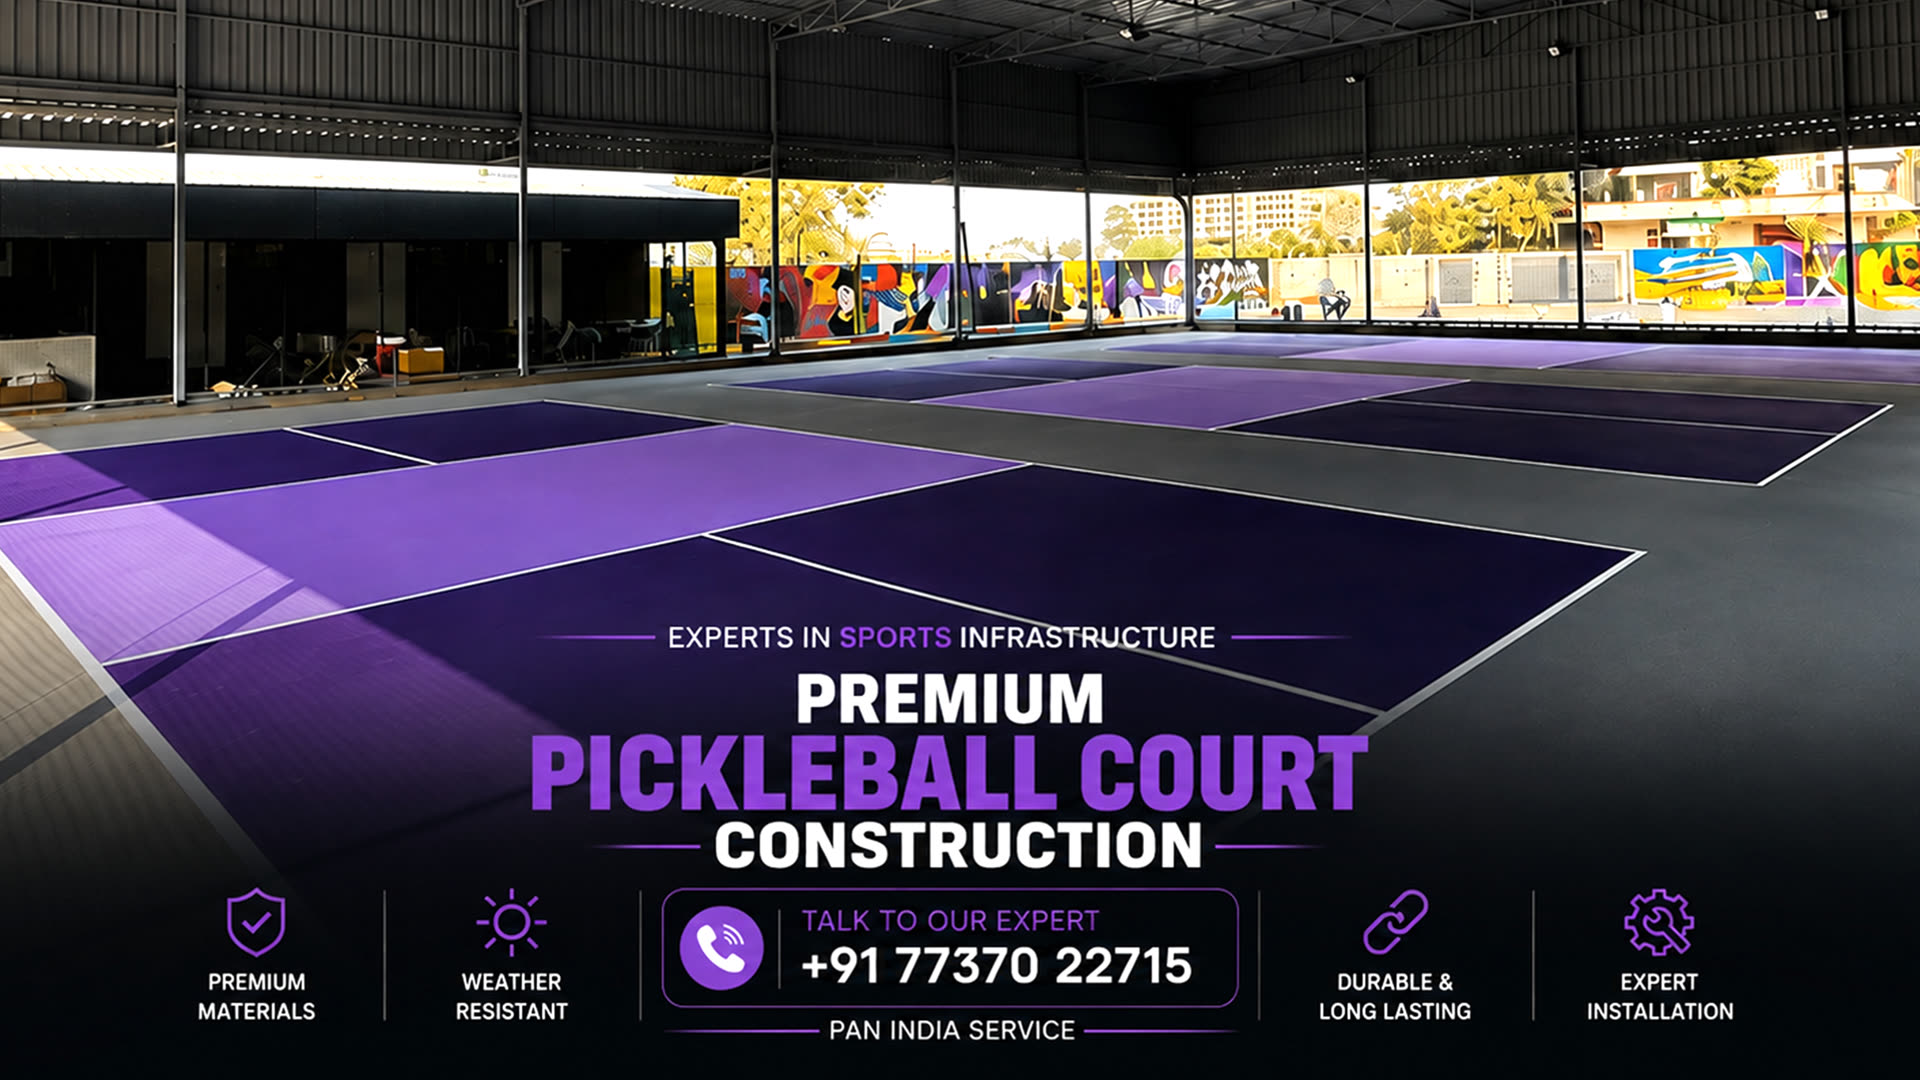
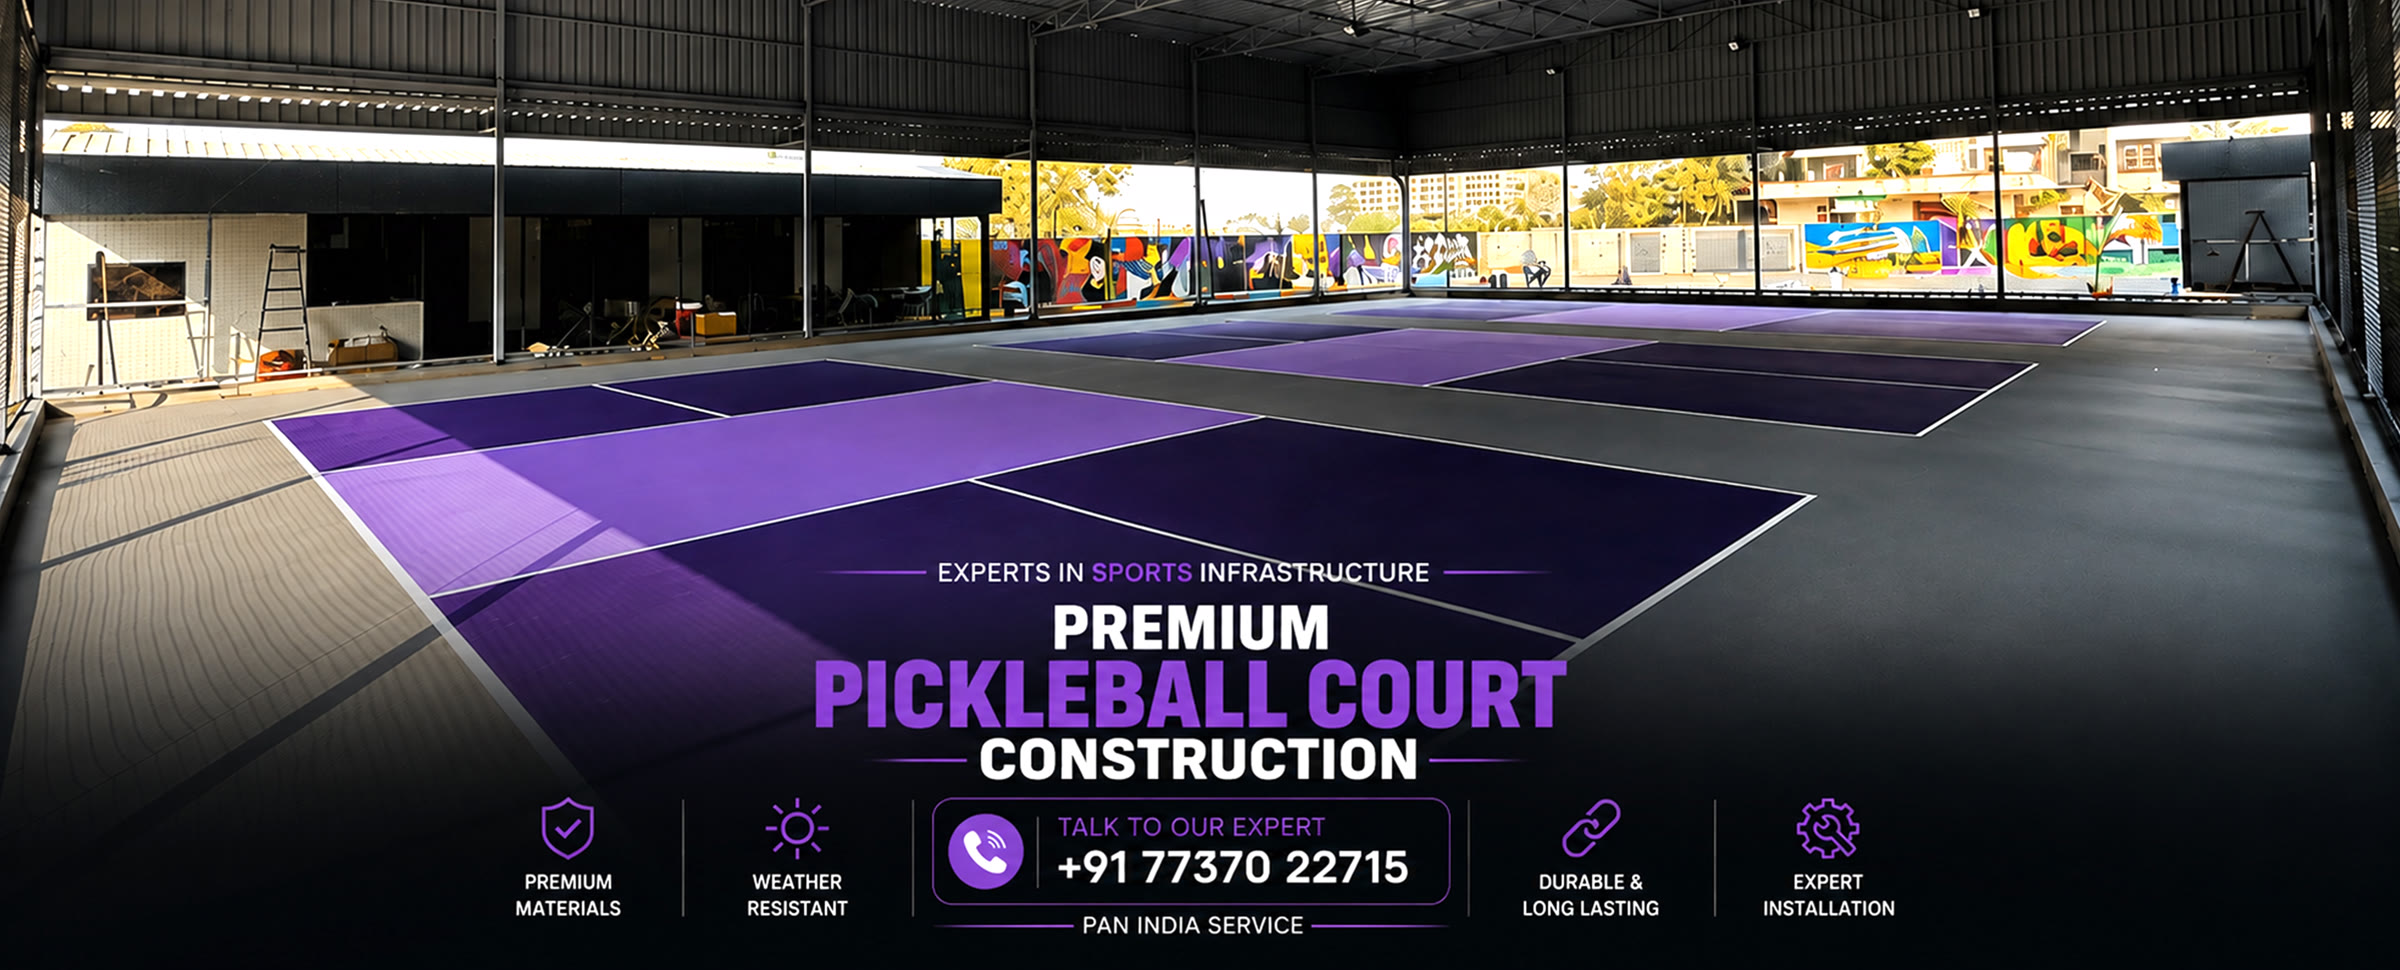
done size

diff --git a/app/page.tsx b/app/page.tsx
@@ -159,8 +159,8 @@ const App = () => {
       </div> */}
 
       {/* --- HERO SECTION --- */}
-    {/* Container matches the art's ratio at each breakpoint (4:5 mobile, 16:9 desktop) so nothing gets cropped */}
-    <div className="relative w-full aspect-[4/5] md:aspect-[16/9] bg-gray-200 overflow-hidden">
+    {/* Container matches the art's ratio at each breakpoint (4:5 mobile, ultra-wide banner desktop) so nothing gets cropped */}
+    <div className="relative w-full aspect-[4/5] md:aspect-[2400/970] bg-gray-200 overflow-hidden">
         {/* --- AUTO-SCROLLING BACKGROUND --- */}
         <div className="absolute inset-0 z-0">
           {/* Desktop slides — own counter, only rendered/animated at md+ */}
